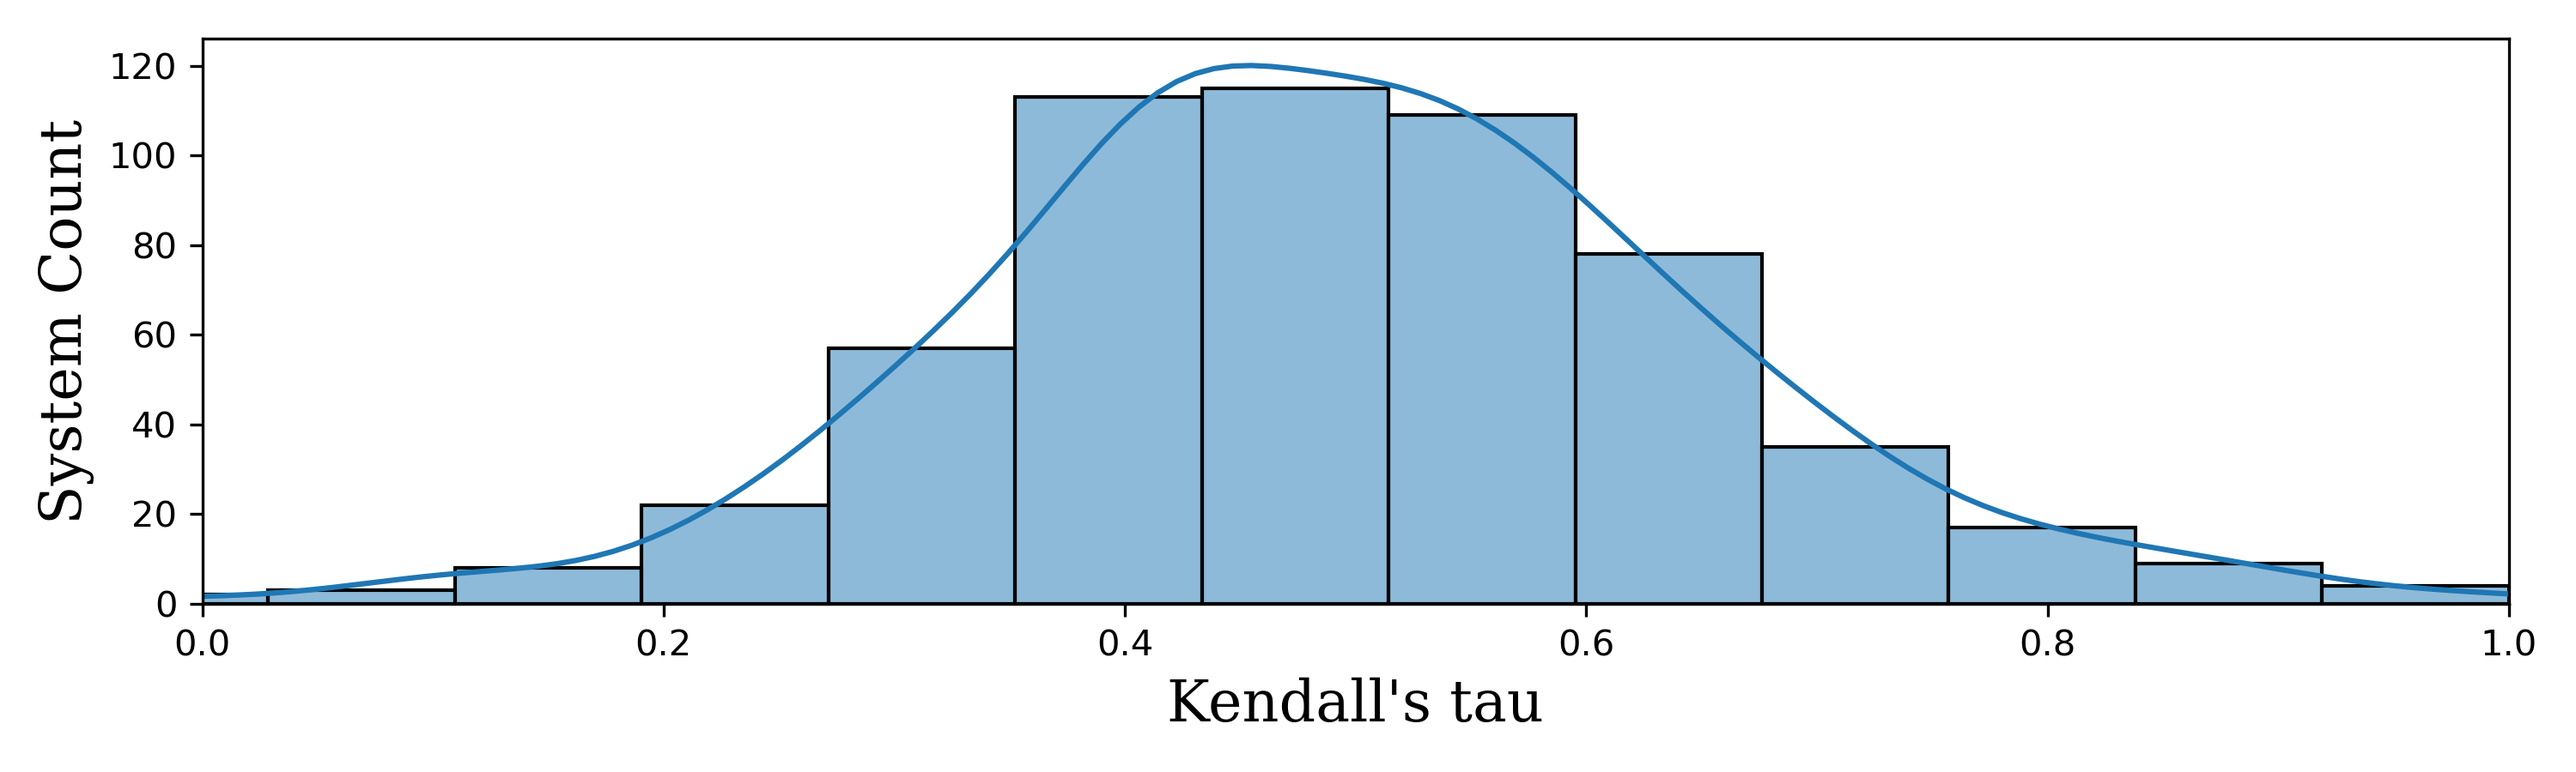
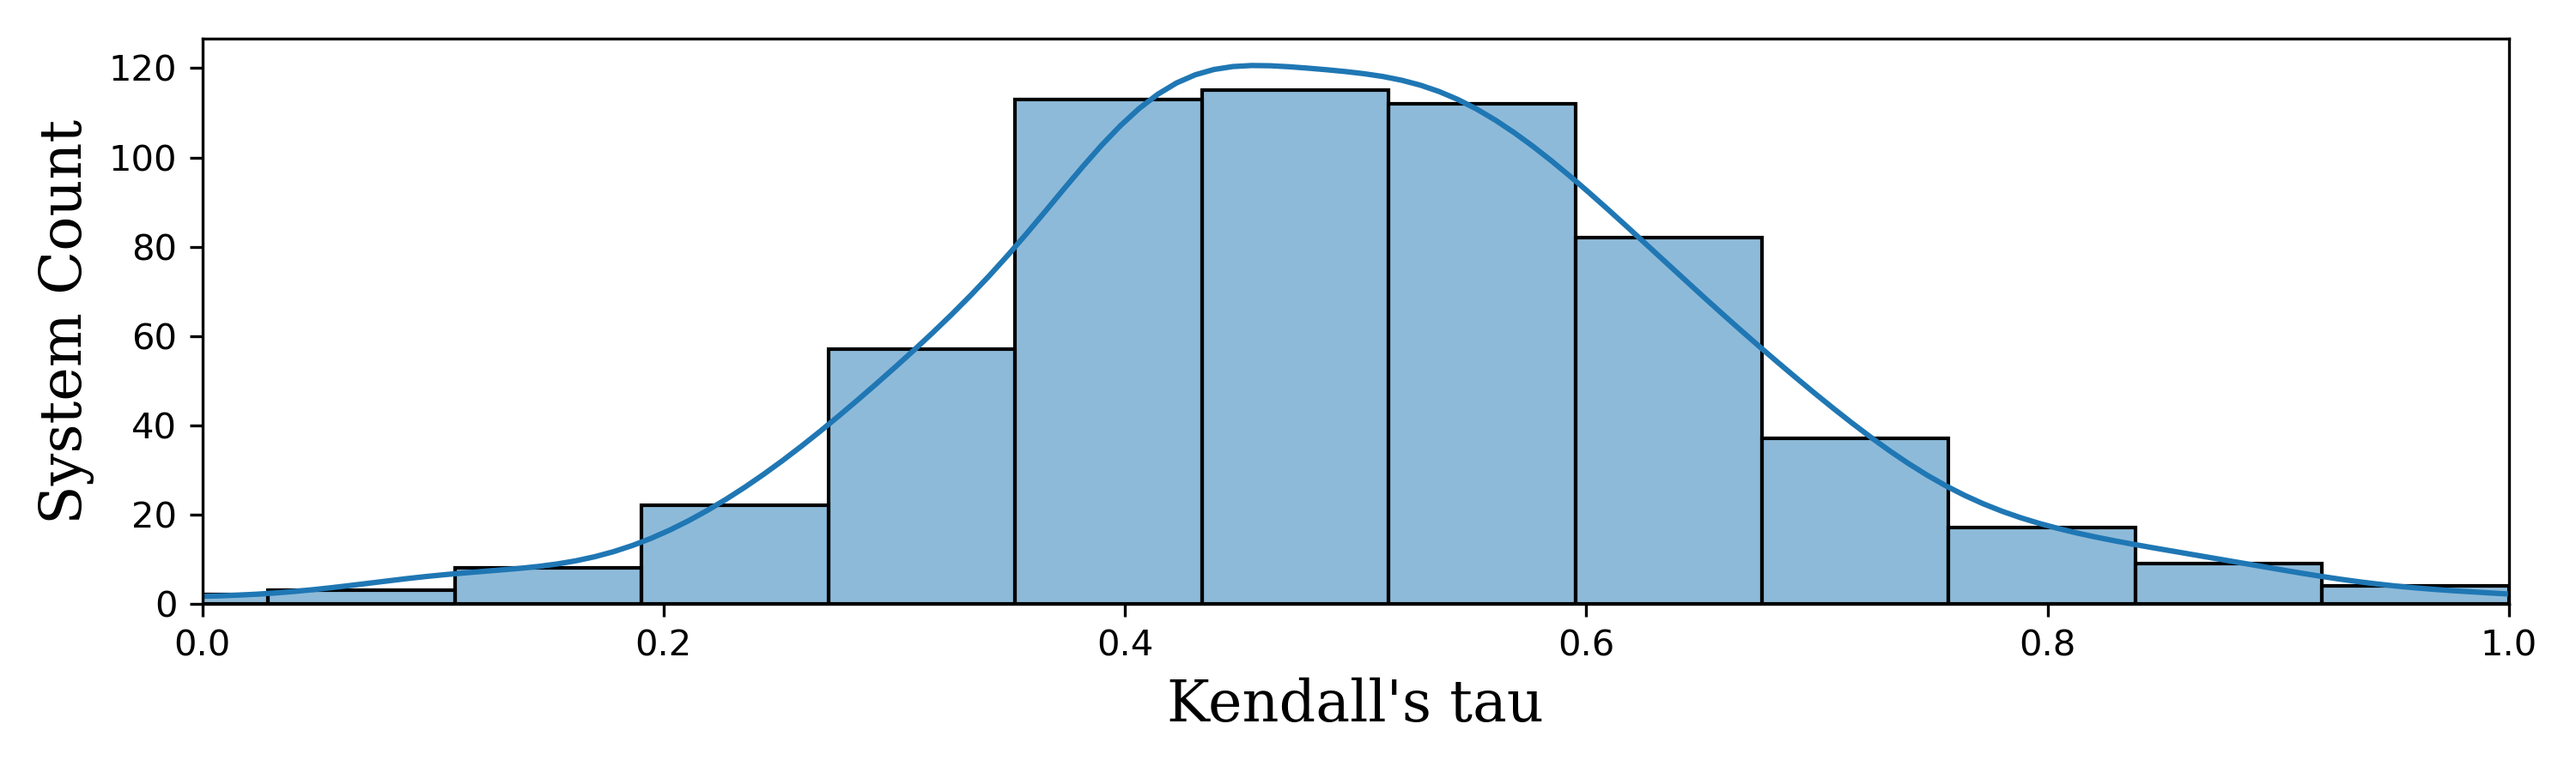
Refresh benchmark summary after weekly ChEMBL upload.

diff --git a/README.md b/README.md
@@ -34,8 +34,8 @@ For more details, please refer to our [FEP Open Challenge introduction](https://
 
 
 ## Summary of Benchmark Results
-**Total Systems**: 573  
-**Total Ligands**: 10952
+**Total Systems**: 582  
+**Total Ligands**: 11112
 ![RMSE Distribution](rmse_distribution.png)
 ![Kendall's tau Distribution](tau_distribution.png)
 | Series | Target | N_Ligands | RMSE (kcal/mol) | R² | Kendall's tau | Description |
@@ -173,6 +173,7 @@ For more details, please refer to our [FEP Open Challenge introduction](https://
 | ChEMBL | DPP4 | 18 | 0.72 | 0.27 | 0.44 | CHEMBL2444439 |
 | ChEMBL | DPP4 | 15 | 1.60 | 0.39 | 0.48 | CHEMBL3620564 |
 | ChEMBL | DPP4 | 23 | 0.74 | 0.61 | 0.50 | CHEMBL951312 |
+| ChEMBL | DPP7 | 15 | 1.20 | 0.78 | 0.69 | CHEMBL666614|g2 |
 | ChEMBL | DUT | 18 | 0.83 | 0.51 | 0.45 | CHEMBL2049243 |
 | ChEMBL | DUT | 13 | 1.10 | 0.40 | 0.49 | CHEMBL2060493 |
 | ChEMBL | DUT | 20 | 0.64 | 0.62 | 0.55 | CHEMBL3705334|g6 |
@@ -217,7 +218,13 @@ For more details, please refer to our [FEP Open Challenge introduction](https://
 | ChEMBL | F10 | 28 | 1.19 | 0.50 | 0.53 | CHEMBL661794 |
 | ChEMBL | F10 | 4 | 0.56 | 0.55 | 0.33 | CHEMBL661801 |
 | ChEMBL | F10 | 15 | 0.79 | 0.34 | 0.28 | CHEMBL662878 |
+| ChEMBL | F10 | 19 | 1.40 | 0.59 | 0.65 | CHEMBL663407|g3 |
 | ChEMBL | F10 | 18 | 0.80 | 0.22 | 0.41 | CHEMBL827928 |
+| ChEMBL | F10 | 20 | 1.28 | 0.46 | 0.54 | CHEMBL875189|g1 |
+| ChEMBL | F10 | 17 | 1.17 | 0.69 | 0.53 | CHEMBL875189|g2 |
+| ChEMBL | F10 | 20 | 1.24 | 0.66 | 0.63 | CHEMBL875189|g3 |
+| ChEMBL | F10 | 20 | 1.22 | 0.54 | 0.53 | CHEMBL875189|g5 |
+| ChEMBL | F10 | 15 | 1.17 | 0.62 | 0.62 | CHEMBL875189|g6 |
 | ChEMBL | F10 | 36 | 1.11 | 0.20 | 0.28 | CHEMBL889317 |
 | ChEMBL | F10 | 36 | 1.84 | 0.37 | 0.32 | CHEMBL900663 |
 | ChEMBL | F10 | 9 | 0.75 | 0.72 | 0.56 | CHEMBL906423 |
@@ -539,6 +546,8 @@ For more details, please refer to our [FEP Open Challenge introduction](https://
 | ChEMBL | SRC | 17 | 0.88 | 0.50 | 0.46 | CHEMBL823232 |
 | ChEMBL | STK3 | 8 | 0.71 | 0.42 | 0.64 | CHEMBL3395732 |
 | ChEMBL | SYK | 21 | 1.56 | 0.29 | 0.31 | CHEMBL1838853 |
+| ChEMBL | SYK | 20 | 1.43 | 0.79 | 0.72 | CHEMBL3270296|g1 |
+| ChEMBL | SYK | 14 | 0.98 | 0.67 | 0.63 | CHEMBL3270296|g3 |
 | ChEMBL | SYK | 21 | 0.76 | 0.28 | 0.11 | CHEMBL945309 |
 | ChEMBL | TEK | 24 | 1.98 | 0.24 | 0.36 | CHEMBL908503 |
 | ChEMBL | THRB | 8 | 0.62 | 0.81 | 0.64 | CHEMBL814601 |
